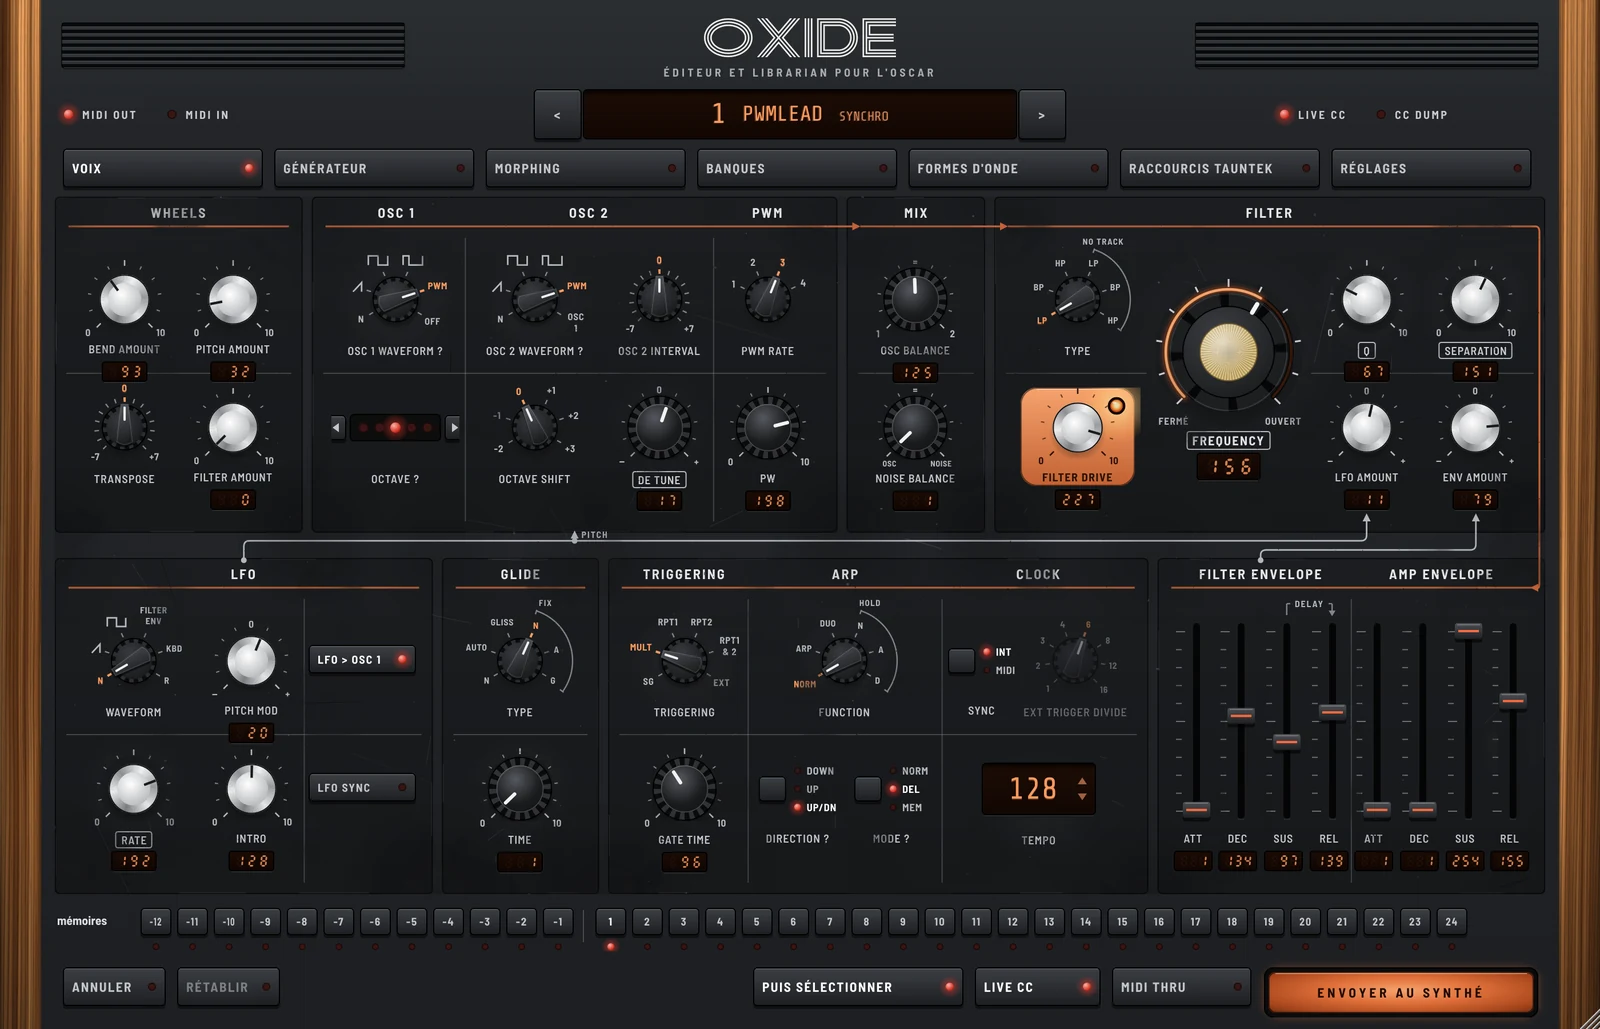
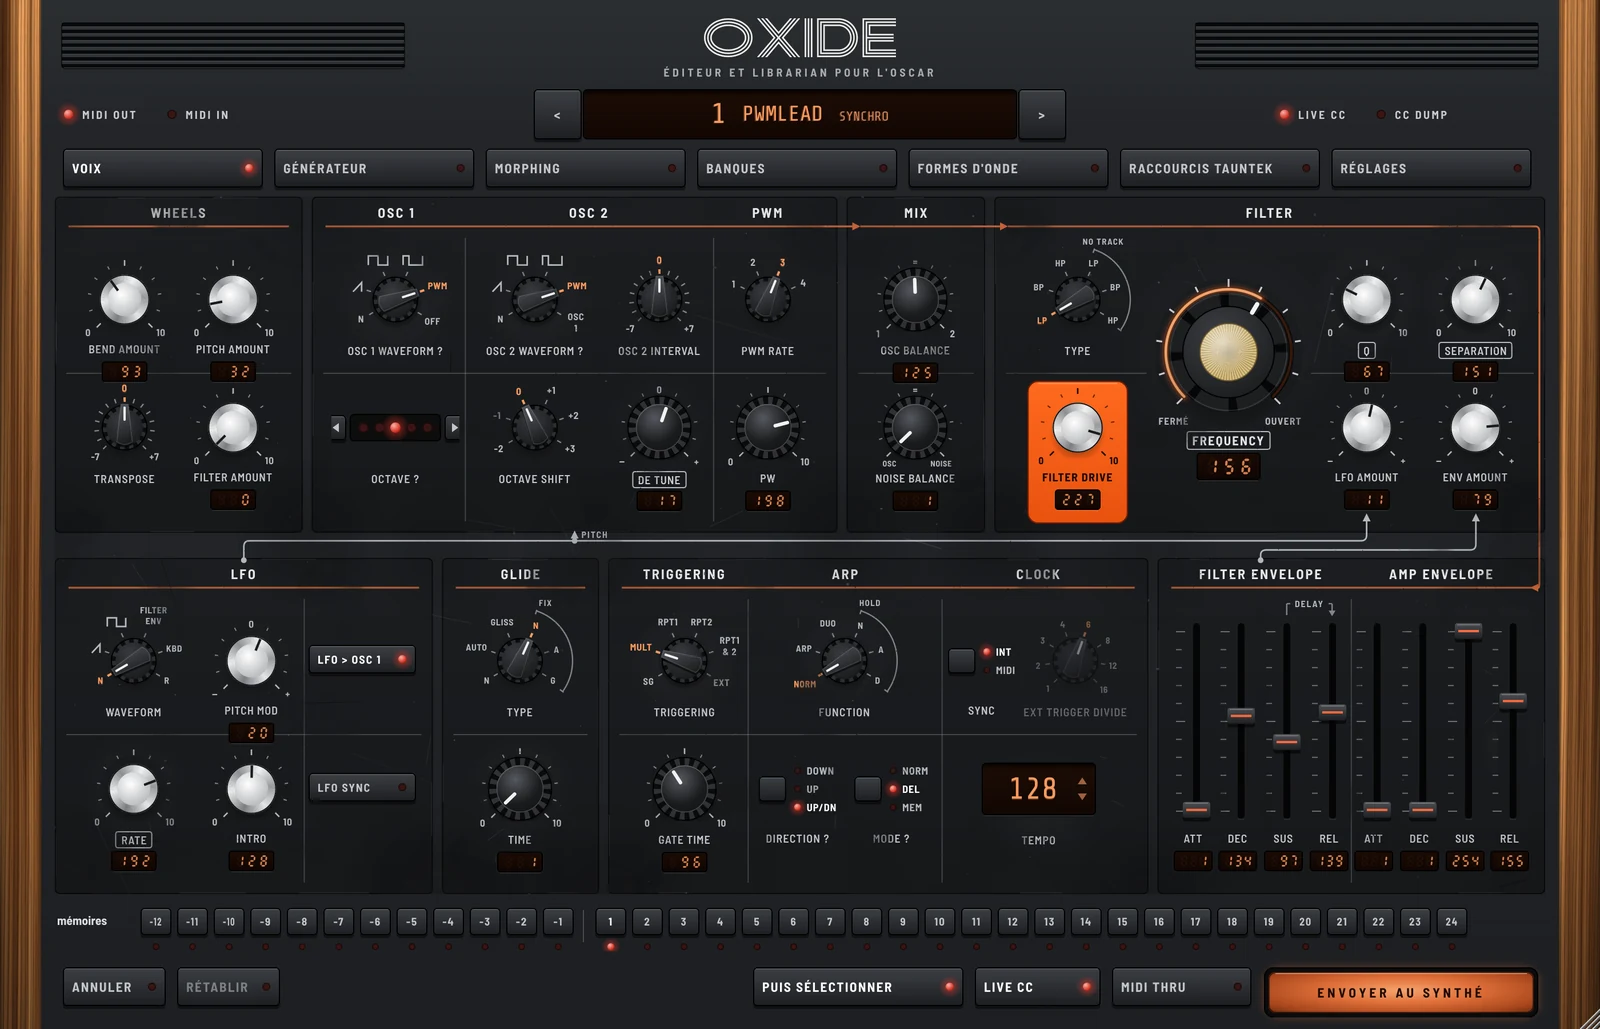
0.5.5: a bolder Filter Drive plate, without the LED
The plate is a livelier orange with a dark rim and runs from above the
knob to below its value window, which now sits inside it. The amber
drive LED and its drawing code are removed.

Claude-Session: https://claude.ai/code/session_019CKNRM6S8p8EDYG9UJivMB

Changed region(s): [[0.625, 0.3421, 0.7188, 0.5287]]

diff --git a/docs/fr.html b/docs/fr.html
@@ -426,7 +426,7 @@ footer a { color: var(--muted); }
 
 <div class="display-row" aria-label="Version actuelle">
   <a class="arrow" href="#news" aria-label="Nouveautés">&lt;</a>
-  <div class="display"><span class="num" id="vfd-version">0.5.4</span><span class="name">OXIDE</span><span class="state">GRATUIT</span></div>
+  <div class="display"><span class="num" id="vfd-version">0.5.5</span><span class="name">OXIDE</span><span class="state">GRATUIT</span></div>
   <a class="arrow" href="#install" aria-label="Installation">&gt;</a>
 </div>
 
@@ -456,7 +456,7 @@ footer a { color: var(--muted); }
         Télécharger pour Mac
       </a>
       <dl class="specs">
-        <dt>Version</dt><dd id="spec-version">0.5.4</dd>
+        <dt>Version</dt><dd id="spec-version">0.5.5</dd>
         <dt>Formats</dt><dd>AU pour Logic Pro, VST3 et application autonome</dd>
         <dt>Système</dt><dd>macOS 11 ou plus récent, Apple Silicon et Intel</dd>
         <dt>Synthé</dt><dd>OSCar avec la carte MIDI Tauntek. Avec le MIDI d'origine, tout marche sauf l'édition en direct.</dd>
@@ -491,8 +491,9 @@ footer a { color: var(--muted); }
   <h2 id="t-news">Les dernières versions</h2>
   <div id="releases">
     <article class="release">
-      <div><span class="vchip">0.5.4</span><div class="cap when">dernière version</div></div>
+      <div><span class="vchip">0.5.5</span><div class="cap when">dernière version</div></div>
       <div class="notes">
+        <p><strong>0.5.5 : une plaque de drive plus franche.</strong> La plaque du Filter Drive passe à un orange plus vif avec un liseré sombre, et elle descend maintenant jusque sous l'afficheur de valeur, qu'elle englobe. La LED ambrée du drive est retirée.</p>
         <p><strong>0.5.4 : de la lumière sur le filtre.</strong> Une fine bande LED suit la course du grand potard Frequency : elle s'allume jusqu'à la coupure et brille de plus en plus quand le filtre s'ouvre. Le potard Filter Drive est posé sur une plaque orange, graduations et nom imprimés en défonce, avec une LED ambrée qui s'allume de plus en plus quand on monte le drive.</p>
         <p><strong>0.5.3 : Charger A, Charger B, et une icône.</strong> Sur la page Morphing, choisir une voix pour A ou B ne change plus le mélange : la voix attend que tu appuies sur Charger (sa LED s'allume pendant l'attente), et le fader ne saute plus vers une voix que tu ne faisais que parcourir. Si un mélange est en cours quand tu charges, le son glisse vers le nouveau couple à la position du fader, sur la durée du lissage. Chaque côté affiche la voix chargée. Et OXIde a son icône : un pad de cuivre allumé, dans le Dock, le Finder et sur le site.</p>
         <p><strong>0.5.2 : mises à jour dans les dossiers protégés.</strong> Quand le plugin a été installé avec ton mot de passe (l'AU dans /Library/Audio/Plug-Ins/Components, depuis l'image disque), la mise à jour demande maintenant ce mot de passe une fois, dans la fenêtre habituelle de macOS, et installe là aussi. Avant, l'AU restait sur l'ancienne version avec « pas le droit d'écrire ».</p>

diff --git a/docs/index.html b/docs/index.html
@@ -426,7 +426,7 @@ footer a { color: var(--muted); }
 
 <div class="display-row" aria-label="Current version">
   <a class="arrow" href="#news" aria-label="What's new">&lt;</a>
-  <div class="display"><span class="num" id="vfd-version">0.5.4</span><span class="name">OXIDE</span><span class="state">FREE</span></div>
+  <div class="display"><span class="num" id="vfd-version">0.5.5</span><span class="name">OXIDE</span><span class="state">FREE</span></div>
   <a class="arrow" href="#install" aria-label="Installation">&gt;</a>
 </div>
 
@@ -456,7 +456,7 @@ footer a { color: var(--muted); }
         Download for Mac
       </a>
       <dl class="specs">
-        <dt>Version</dt><dd id="spec-version">0.5.4</dd>
+        <dt>Version</dt><dd id="spec-version">0.5.5</dd>
         <dt>Formats</dt><dd>AU for Logic Pro, VST3 and standalone app</dd>
         <dt>System</dt><dd>macOS 11 or later, Apple silicon and Intel</dd>
         <dt>Synth</dt><dd>OSCar with the Tauntek MIDI board. With the original MIDI, everything works except live editing.</dd>
@@ -491,8 +491,9 @@ footer a { color: var(--muted); }
   <h2 id="t-news">Latest versions</h2>
   <div id="releases">
     <article class="release">
-      <div><span class="vchip">0.5.4</span><div class="cap when">latest version</div></div>
+      <div><span class="vchip">0.5.5</span><div class="cap when">latest version</div></div>
       <div class="notes">
+        <p><strong>0.5.5: a bolder drive plate.</strong> The Filter Drive plate is a deeper, livelier orange with a dark rim, and it now runs from above the knob to below its value window, which sits inside it. The amber drive LED is gone.</p>
         <p><strong>0.5.4: lights on the filter.</strong> A thin LED band runs along the travel of the big Frequency knob: it lights up to the cutoff and glows brighter as the filter opens. The Filter Drive knob sits on an orange plate, its scale and name printed in reverse, with an amber LED that glows harder as you add drive.</p>
         <p><strong>0.5.3: Load A, Load B, and an icon.</strong> On the Morph page, choosing a voice for A or B no longer changes the blend: the voice waits until you press Load (its LED lights while it waits), so the fader never jumps to a voice you were only browsing. If a blend is going on when you load, the sound glides to the new pair at the fader's position, over the smoothing time. Each side shows which voice is loaded. And OXIde has its own icon: a glowing copper pad, in the Dock, the Finder and on the web page.</p>
         <p><strong>0.5.2: updates into protected folders.</strong> When the plug-in was installed with your password (the AU in /Library/Audio/Plug-Ins/Components, from the disk image), the update now asks macOS for that password once, in its usual window, and installs there too. Before, the AU was left on the old version with "no permission to write".</p>

diff --git a/Source/ui/Atelier.cpp b/Source/ui/Atelier.cpp
@@ -835,32 +835,6 @@ void drawCopper (juce::Graphics& g, juce::Rectangle<float> a, float corner, bool
     g.drawRoundedRectangle (a.reduced (0.5f), corner, 1.0f);
 }
 
-void drawAnalogLed (juce::Graphics& g, juce::Point<float> c, float d, float level)
-{
-    level = juce::jlimit (0.0f, 1.0f, level);
-    const auto lens = juce::Rectangle<float> (d, d).withCentre (c);
-    if (level > 0.0f)   // the light spilling around it, warmer and lighter than any panel colour
-    {
-        const float r = d * (1.3f + 1.9f * level);
-        g.setGradientFill (juce::ColourGradient (juce::Colour (0xffffe2a8).withAlpha (0.95f * level), c.x, c.y,
-                                                 juce::Colour (0xffffb050).withAlpha (0.0f), c.x + r, c.y, true));
-        g.fillEllipse (juce::Rectangle<float> (2.0f * r, 2.0f * r).withCentre (c));
-    }
-    g.setColour (juce::Colour (0xff120804));   // the bezel, a dark ring the lens sits in
-    g.fillEllipse (lens.expanded (d * 0.2f));
-    // the lens: dark amber when off; lit, a hot pale core fading to deep orange at the rim
-    const auto core = juce::Colour (0xff3a1608).interpolatedWith (juce::Colour (0xfffff1c2), level);
-    const auto mid  = juce::Colour (0xff2c1006).interpolatedWith (juce::Colour (0xffffa63c), level);
-    const auto rim  = juce::Colour (0xff1c0a04).interpolatedWith (juce::Colour (0xffd8481a), level);
-    juce::ColourGradient lensFill (core, c.x, c.y - d * 0.05f, rim, c.x + d * 0.5f, c.y, true);
-    lensFill.addColour (0.30, core);
-    lensFill.addColour (0.68, mid);
-    g.setGradientFill (lensFill);
-    g.fillEllipse (lens);
-    g.setColour (juce::Colours::white.withAlpha (0.5f));   // the lens catching the light
-    g.fillEllipse (juce::Rectangle<float> (d * 0.3f, d * 0.18f).withCentre (c.translated (-d * 0.18f, -d * 0.25f)));
-}
-
 void drawKnob (juce::Graphics& g, juce::Rectangle<float> area, float proportion, KnobStyle style, float hotFrom, bool ledArc)
 {
     const auto c = area.getCentre();
@@ -1262,34 +1236,31 @@ void Knob::setValue (int v)
 void Knob::resized()
 {
     const int k = knobDiameter();
-    slider.setBounds (getLocalBounds().withTrimmedTop (topRoom (style)).removeFromTop (k).withSizeKeepingCentre (k, k));
+    slider.setBounds (getLocalBounds().withTrimmedTop (topOffset()).removeFromTop (k).withSizeKeepingCentre (k, k));
 }
 
 juce::Rectangle<float> Knob::plateBounds() const
 {
-    // scale, knob and name; the value window stays below, in line with the others of the row
-    return getLocalBounds().toFloat().reduced (5.0f, 0.0f).withBottom (readoutBounds().getY() - 3.0f);
+    // scale, knob, name and value window, a little narrower than the column
+    const auto r = getLocalBounds().toFloat();
+    return r.withSizeKeepingCentre (juce::jmin (r.getWidth() - 4.0f, 88.0f), r.getHeight());
 }
 
 void Knob::paint (juce::Graphics& g)
 {
     const int k = knobDiameter();
     const bool big = style == KnobStyle::Brass;
-    const auto ink = juce::Colour (0xff2a1206);   // printing on the orange plate
+    const auto ink = juce::Colour (0xff1a0802);   // printing on the orange plate
     if (plate)
     {
-        const auto r = plateBounds();
-        g.setGradientFill (juce::ColourGradient (colours::copperLight, r.getCentreX(), r.getY(), colours::copper.darker (0.15f), r.getCentreX(), r.getBottom(), false));
-        g.fillRoundedRectangle (r, 14.0f);
-        g.setColour (juce::Colours::white.withAlpha (0.35f));
-        g.drawHorizontalLine (juce::roundToInt (r.getY() + 1.0f), r.getX() + 14.0f, r.getRight() - 14.0f);
-        g.setColour (juce::Colours::black.withAlpha (0.55f));
-        g.drawRoundedRectangle (r.reduced (0.5f), 14.0f, 1.0f);
-    }
-    if (levelLed)   // top right of the plate (or of the control), brighter with the value
-    {
-        const auto r = plate ? plateBounds() : getLocalBounds().toFloat();
-        drawAnalogLed (g, { r.getRight() - 16.0f, r.getY() + 16.0f }, 11.0f, (float) slider.getValue() / (float) slider.getMaximum());
+        // a frank signal orange, nearly flat, with a crisp dark edge: printed-panel graphics
+        const auto r = plateBounds().reduced (0.5f);
+        g.setGradientFill (juce::ColourGradient (juce::Colour (0xffff6a1f), r.getCentreX(), r.getY(), juce::Colour (0xffe9520f), r.getCentreX(), r.getBottom(), false));
+        g.fillRoundedRectangle (r, 9.0f);
+        g.setColour (juce::Colours::white.withAlpha (0.28f));
+        g.drawHorizontalLine (juce::roundToInt (r.getY() + 1.5f), r.getX() + 9.0f, r.getRight() - 9.0f);
+        g.setColour (juce::Colour (0xff6e1d03));
+        g.drawRoundedRectangle (r, 9.0f, 1.2f);
     }
     if (! big)
     {
@@ -1347,7 +1318,7 @@ void Knob::paint (juce::Graphics& g)
         return;
     }
 
-    auto area = getLocalBounds().withTrimmedTop (topRoom (style) + k + (big ? 4 : 10));
+    auto area = getLocalBounds().withTrimmedTop (topOffset() + k + (big ? 4 : 10)).withTrimmedBottom (plateBottom());
     const auto font = big ? Fonts::bold (13.5f).withExtraKerningFactor (0.08f) : Fonts::label (12.0f).withExtraKerningFactor (0.04f);
     const bool twoLines = ! big && labelStyle == LabelStyle::Plain && area.getHeight() >= 26 + 14 + 10;
     const int labelH = big ? 17 : (twoLines ? 26 : 16);
@@ -1369,8 +1340,8 @@ juce::Rectangle<float> Knob::readoutBounds() const
         const float y = (float) (topRoom (style) + knobDiameter() + 8);
         return { (float) getWidth() * 0.5f - total * 0.5f + lw + 10.0f, y, ww, 26.0f };
     }
-    const int top = topRoom (style) + knobDiameter() + (big ? 4 : 10);
-    const bool twoLines = ! big && labelStyle == LabelStyle::Plain && getHeight() - top >= 26 + 14 + 10;
+    const int top = topOffset() + knobDiameter() + (big ? 4 : 10);
+    const bool twoLines = ! big && labelStyle == LabelStyle::Plain && getHeight() - plateBottom() - top >= 26 + 14 + 10;
     const float y = (float) (top + (big ? 17 : (twoLines ? 26 : 16)) + (big ? 2 : 1));
     const float rh = big ? 24.0f : 18.0f, rw = big ? 56.0f : 40.0f;
     return juce::Rectangle<float> (rw, rh).withCentre ({ (float) getWidth() * 0.5f, y + rh * 0.5f });

diff --git a/Source/ui/Atelier.h b/Source/ui/Atelier.h
@@ -98,8 +98,6 @@ void drawControlLabel (juce::Graphics&, juce::Rectangle<int> area, const juce::S
 // hotFrom (0..1, brass only): the ticks from there to the end printed orange, with a mark where it starts.
 // ledArc (brass only): a thin LED band along the knob's travel, lit up to the value, brighter the further it goes.
 void drawKnob (juce::Graphics&, juce::Rectangle<float> area, float proportion, KnobStyle, float hotFrom = -1.0f, bool ledArc = false);
-// A round amber indicator LED behind its lens, glowing with 'level' (0 dark .. 1 full).
-void drawAnalogLed (juce::Graphics&, juce::Point<float> centre, float diameter, float level);
 void drawSwitchKnob (juce::Graphics&, juce::Point<float> centre, float radius, float angleFromTop);   // pointer knob of a rotary switch
 
 //==============================================================================
@@ -154,14 +152,19 @@ public:
     // the knob that stands out on a panel.
     void setPlate (bool b)                          { plate = b; repaint(); }
     void setLedArc (bool b)                         { slider.getProperties().set ("ledArc", b); repaint(); }   // big knob: LED band along its travel
-    void setLevelLed (bool b)                       { levelLed = b; repaint(); }   // an amber LED on the plate, brighter with the value
     bool hasPlate() const                           { return plate; }
     juce::Rectangle<float> plateBounds() const;
     void setHotZone (float from)                    { slider.getProperties().set ("hotFrom", from); repaint(); }
     // the name and the value side by side under the knob, the value in a small VFD window (big knob)
     void setValueBeside (bool b)                    { valueBeside = b; repaint(); }
     int knobDiameter() const                        { return customSize > 0 ? customSize : knobSize (style); }
-    int preferredHeight() const                     { return valueBeside ? topRoom (style) + knobDiameter() + 8 + 26 : height (style); }
+    // with a plate, the control grows a little above and below so the plate frames the value too
+    int plateTop() const                            { return plate ? 6 : 0; }
+    int plateBottom() const                         { return plate ? 10 : 0; }
+    int topOffset() const                           { return topRoom (style) + plateTop(); }   // where the knob starts
+    int centreLine() const                          { return topOffset() + knobDiameter() / 2; }
+    int preferredHeight() const                     { return valueBeside ? topRoom (style) + knobDiameter() + 8 + 26
+                                                                         : height (style) + plateTop() + plateBottom(); }
     void mouseEnter (const juce::MouseEvent&) override { repaint(); }   // the value lights up under the mouse
     void mouseExit (const juce::MouseEvent&) override  { repaint(); }
 
@@ -184,7 +187,7 @@ private:
     std::function<juce::String (int)> valueText;
     bool updating = false;
     int customSize = 0;
-    bool valueBeside = false, plate = false, levelLed = false;
+    bool valueBeside = false, plate = false;
 };
 
 // Vertical fader (envelopes). Its name and value sit at its bottom, as under a knob: placed with its

diff --git a/Source/ui/Panels.cpp b/Source/ui/Panels.cpp
@@ -146,7 +146,6 @@ VoicePanel::VoicePanel (OscarProcessor& p) : proc (p)
     for (auto* id : { "filterFreq", "resonance", "filterSep", "detune", "lfoRate" })   // the main controls: their names framed
         knob (id).setLabelStyle (LabelStyle::Boxed);
     knob ("filterDrive").setPlate (true);   // the drive stands out: the whole knob on an orange plate, printed in reverse
-    knob ("filterDrive").setLevelLed (true);   // and an amber LED that glows with the drive
     knob ("filterFreq").setLedArc (true);      // an LED band along the cutoff's travel, brighter as it opens
     knob ("oscBalance").setScale ("1", "2", "=");   // equal mix in the middle, as printed on the panel
     knob ("noiseBalance").setScale ("OSC", "NOISE", "=");
@@ -454,7 +453,7 @@ void VoicePanel::refresh()
 
 std::pair<int, int> VoicePanel::extent (juce::Component& c) const
 {
-    if (auto* k = dynamic_cast<Knob*> (&c))                 return { Knob::centreY (k->getStyle()), Knob::height (k->getStyle()) };
+    if (auto* k = dynamic_cast<Knob*> (&c))                 return { k->centreLine(), k->preferredHeight() };
     // every control's name sits 37 under its centre line (as under a knob), so a row's names line up
     if (auto* r = dynamic_cast<RotarySwitch*> (&c))         return { RotarySwitch::centreY + r->getExtraTop(), RotarySwitch::height + r->getExtraTop() };
     if (auto* l = dynamic_cast<LedSelector*> (&c))          return { l->blockHeight() / 2, l->preferredHeight() };

diff --git a/RELEASE_NOTES.md b/RELEASE_NOTES.md
@@ -1,5 +1,7 @@
 ## English
 
+**0.5.5: a bolder drive plate.** The Filter Drive plate is a deeper, livelier orange with a dark rim, and it now runs from above the knob to below its value window, which sits inside it. The amber drive LED is gone.
+
 **0.5.4: lights on the filter.** A thin LED band runs along the travel of the big Frequency knob: it lights up to the cutoff and glows brighter as the filter opens. The Filter Drive knob sits on an orange plate, its scale and name printed in reverse, with an amber LED that glows harder as you add drive.
 
 **0.5.3: Load A, Load B, and an icon.** On the Morph page, choosing a voice for A or B no longer changes the blend: the voice waits until you press Load (its LED lights while it waits), so the fader never jumps to a voice you were only browsing. If a blend is going on when you load, the sound glides to the new pair at the fader's position, over the smoothing time. Each side shows which voice is loaded. And OXIde has its own icon: a glowing copper pad, in the Dock, the Finder and on the web page.
@@ -30,6 +32,8 @@
 - **A panel with a past**: the printed ink is lightly worn in places; the controls stay clean.
 
 ## Français
+
+**0.5.5 : une plaque de drive plus franche.** La plaque du Filter Drive passe à un orange plus vif avec un liseré sombre, et elle descend maintenant jusque sous l'afficheur de valeur, qu'elle englobe. La LED ambrée du drive est retirée.
 
 **0.5.4 : de la lumière sur le filtre.** Une fine bande LED suit la course du grand potard Frequency : elle s'allume jusqu'à la coupure et brille de plus en plus quand le filtre s'ouvre. Le potard Filter Drive est posé sur une plaque orange, graduations et nom imprimés en défonce, avec une LED ambrée qui s'allume de plus en plus quand on monte le drive.
 
